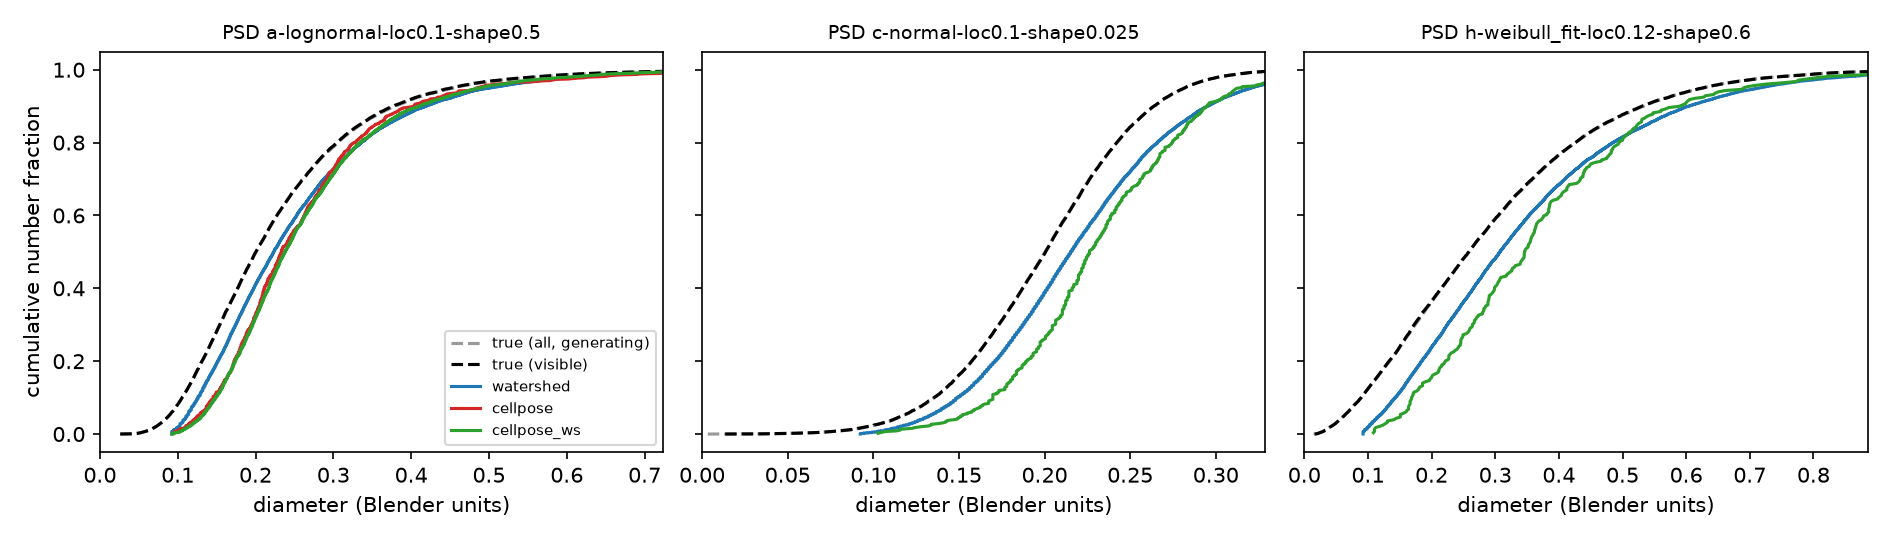
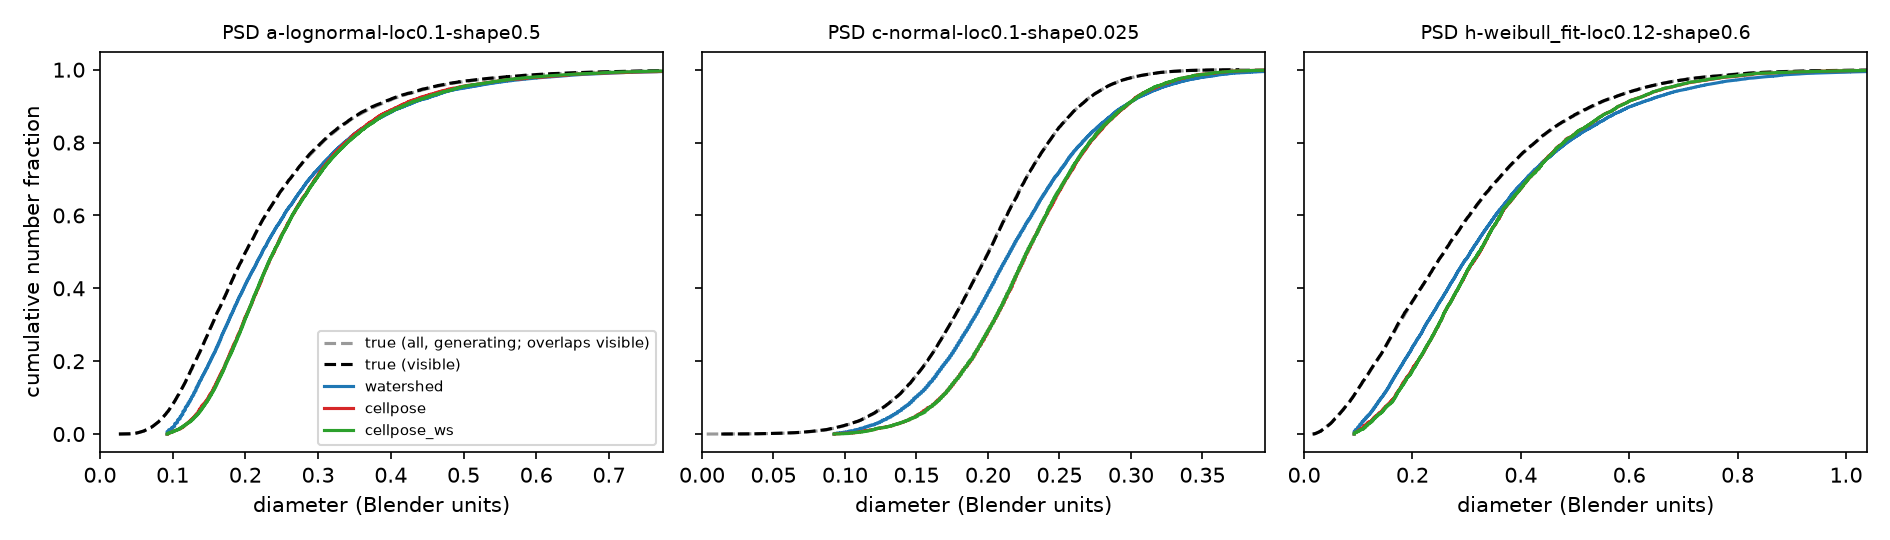
Block 5 results, Block 8 figures and one-pager

diff --git a/src/validate_synthetic.py b/src/validate_synthetic.py
@@ -204,37 +204,40 @@ def report(max_k=None, figures=True):
                 continue
             v = np.sort(cdfs[(L, key)])
             ls = "--" if key in ("generating", "visible") else "-"
-            lab = {"generating": "true (all, generating)", "visible": "true (visible)"}.get(key, key)
+            lab = {"generating": "true (all, generating; overlaps visible)", "visible": "true (visible)"}.get(key, key)
             ax.plot(v, np.arange(1, len(v) + 1) / len(v), ls, color=colors[key], label=lab, lw=1.5)
         name = res.loc[res.psd == L, "psd_name"].iloc[0]
         ax.set_title(f"PSD {name}", fontsize=9)
         ax.set_xlabel("diameter (Blender units)")
-        ax.set_xlim(0, np.percentile(cdfs[(L, "generating")], 99.5))
+        ax.set_xlim(0, max(np.percentile(v_, 99.5) for k_, v_ in cdfs.items() if k_[0] == L))
     axs[0].set_ylabel("cumulative number fraction")
     axs[0].legend(fontsize=7, loc="lower right")
     fig.tight_layout()
     fig.savefig(figs / "fig2_synthetic_psd.png", dpi=150)
     plt.close(fig)
 
-    fig, ax = plt.subplots(figsize=(4.6, 4.4))
+    fig, axs = plt.subplots(1, 2, figsize=(9.2, 4.4))
     mk = {"watershed": "o", "cellpose": "s", "cellpose_ws": "^"}
-    lo = min(res.vis_D50.min(), res.meas_D50.min()) * 0.9
-    hi = max(res.vis_D50.max(), res.meas_D50.max()) * 1.1
-    for m in methods:
-        s = res[res.method == m]
-        ax.scatter(s.vis_D50, s.meas_D50, marker=mk[m], color=colors[m],
-                   label=f"{m} (mean |err| {np.mean(np.abs(s.err_vs_vis_D50)):.1%})")
-        for _, r in s.iterrows():
-            ax.annotate(r.psd, (r.vis_D50, r.meas_D50), fontsize=6, xytext=(2, 2), textcoords="offset points")
-    ax.plot([lo, hi], [lo, hi], "k--", lw=1)
-    ax.plot([lo, hi], [lo * 1.1, hi * 1.1], ":", color="0.6", lw=0.8)
-    ax.plot([lo, hi], [lo * 0.9, hi * 0.9], ":", color="0.6", lw=0.8)
-    ax.set_xlim(lo, hi)
-    ax.set_ylim(lo, hi)
-    ax.set_xlabel("true D50, visible particles (units)")
-    ax.set_ylabel("measured D50 (units)")
-    ax.set_title("Synthetic D50 parity (8 PSDs, 48 images each)", fontsize=9)
-    ax.legend(fontsize=7, loc="upper left")
+    for ax, (tcol, mcol, ecol, lbl) in zip(axs, [
+            ("vis_D50", "meas_D50", "err_vs_vis_D50", "number-weighted D50"),
+            ("vis_D50_vol", "meas_D50_vol", "err_vs_vis_D50_vol", "volume-weighted D50")]):
+        lo = min(res[tcol].min(), res[mcol].min()) * 0.9
+        hi = max(res[tcol].max(), res[mcol].max()) * 1.1
+        for m in methods:
+            s = res[res.method == m]
+            ax.scatter(s[tcol], s[mcol], marker=mk[m], color=colors[m],
+                       label=f"{m}, {int(s.n_images.median())} img/PSD (mean |err| {np.mean(np.abs(s[ecol])):.1%})")
+            for _, r in s.iterrows():
+                ax.annotate(r.psd, (r[tcol], r[mcol]), fontsize=6, xytext=(2, 2), textcoords="offset points")
+        ax.plot([lo, hi], [lo, hi], "k--", lw=1)
+        ax.plot([lo, hi], [lo * 1.1, hi * 1.1], ":", color="0.6", lw=0.8)
+        ax.plot([lo, hi], [lo * 0.9, hi * 0.9], ":", color="0.6", lw=0.8)
+        ax.set_xlim(lo, hi)
+        ax.set_ylim(lo, hi)
+        ax.set_xlabel(f"true {lbl}, visible particles (units)")
+        ax.set_ylabel(f"measured {lbl} (units)")
+        ax.set_title(f"Synthetic {lbl} parity, 8 PSDs (dotted: +-10%)", fontsize=9)
+        ax.legend(fontsize=6.5, loc="upper left")
     fig.tight_layout()
     fig.savefig(figs / "fig3_d50_parity.png", dpi=150)
     plt.close(fig)

diff --git a/tests/make_fig1.py b/tests/make_fig1.py
@@ -1,0 +1,44 @@
+"""figures/fig1_overlays.png: raw | watershed | Cellpose, synthetic row + real row."""
+import sys
+from pathlib import Path
+
+import numpy as np
+
+ROOT = Path(__file__).resolve().parents[1]
+sys.path.insert(0, str(ROOT))
+from src.imio import load_gray  # noqa: E402
+from src.segment import overlay, segment  # noqa: E402
+
+
+def main():
+    import matplotlib
+    matplotlib.use("Agg")
+    import matplotlib.pyplot as plt
+    rows = [
+        ("Synthetic (PSD e, render 1), 256x256 crop",
+         load_gray(ROOT / "data/synthetic/e-lognormal-loc0.12-shape0.5/renders/particles1.png"), (0, 256, 0, 256)),
+        ("AA7075 base powder (Fig 2a), 300x, 0.372 µm/px",
+         load_gray(ROOT / "data/aa7075/Original_Image_for_Fig_2a.tif"), None),
+    ]
+    fig, axs = plt.subplots(2, 3, figsize=(12, 8.4))
+    for r, (name, img, crop) in enumerate(rows):
+        panels = [("raw", img, None)]
+        for m in ("watershed", "cellpose"):
+            lab, info = segment(img, m)
+            panels.append((f"{m}: n={info['n']} (full frame), {info['seconds']:.1f} s CPU", img, lab))
+        for c, (t, im, lab) in enumerate(panels):
+            show = np.dstack([im] * 3) if lab is None else overlay(im, lab)[..., ::-1]
+            if crop:
+                y0, y1, x0, x1 = crop
+                show = show[y0:y1, x0:x1]
+            axs[r, c].imshow(show, cmap="gray", interpolation="nearest")
+            axs[r, c].set_title(t if c else f"{name}", fontsize=9)
+            axs[r, c].axis("off")
+    fig.tight_layout()
+    (ROOT / "figures").mkdir(exist_ok=True)
+    fig.savefig(ROOT / "figures/fig1_overlays.png", dpi=130)
+    print("saved figures/fig1_overlays.png")
+
+
+if __name__ == "__main__":
+    main()

diff --git a/src/real_check.py b/src/real_check.py
@@ -117,7 +117,8 @@ def main():
         ax.set_xlabel("diameter (µm)")
         ax.grid(alpha=0.3, which="both")
     axs[0].set_ylabel("cumulative volume fraction")
-    axs[0].legend(fontsize=6, loc="upper left")
+    for ax in axs:
+        ax.legend(fontsize=5.5, loc="upper left")
     fig.tight_layout()
     fig.savefig(figs / "fig4_aa7075_vs_reported.png", dpi=150)
     plt.close(fig)

diff --git a/PROGRESS.md b/PROGRESS.md
@@ -1,11 +1,11 @@
 # PROGRESS
 
 ## Summary (read this first)
-1. Blocks 1-2 done. Env works (`check_env.py` prints ok). Both datasets downloaded automatically.
-2. Scale: AA7075 TIFFs have NO data bar; µm/px read from Zeiss TIFF metadata (0.3722 µm/px). OCR scale-bar path tested on 5 rendered data bars: max error 0.25%.
-3. (pending) Segmentation, metrics, synthetic validation, real-image check, CLI, one-pager.
-4. Manual items for you: put Ti-6Al-4V / 316L images in `data/alloy2/` if you want Block 6 alloy-2 run.
-5. Disk: 12 GB free at start. Data on disk ~270 MB.
+1. All 8 blocks done. Demo: `python analyze.py samples --out out/demo` (watershed, ~1 s/image). One-pager: `ONE_PAGER.md`. Figures 1-4 + failures in `figures/`.
+2. Synthetic accuracy (exact 3D GT, 8 PSDs): watershed number D50 +12% (range +7 to +19%, always high), volume D50 +12%; Cellpose volume D50 6% abs. D90 ranks all 8 PSDs correctly (ρ = 1.0).
+3. Real AA7075 vs laser diffraction (volume, edge-corrected, watershed): D50 -14% (base), -8% (surface-mod TiC), -25% (volume-mod TiC, only 29 particles). D90 -17 to -42%: one 300x frame is too small a sample for D90.
+4. Skipped: Rettenberger model (needs Detectron2 compile, no compiler), second alloy (`data/alloy2/` empty), satellite fraction beyond a solidity proxy. Cellpose validated on 16 img/PSD, not 50 (CPU time).
+5. For you: drop Ti-6Al-4V / 316L images in `data/alloy2/` and run `python analyze.py data/alloy2` to cover the alloy-2 check. Keep the project at a short path on the lab PC (Windows path-length limit breaks the torch install).
 
 ## Block 1: Env + data (DONE)
 - Python 3.13.2, torch 2.14.1+cpu (already present), cellpose 3.0.9, easyocr 1.7.2, skimage 0.26, opencv-python-headless 5.0. Pinned in `requirements.txt`.
@@ -70,3 +70,72 @@
 - Satellite proxy: `irregular_frac` = fraction with solidity < 0.90 (coarse: satellites attached or agglomerates).
 - `analyze_image(path, method, um_per_px=None) -> (df, summary, labels, img, scale)` and `plot_psd()`.
 - First real number, Fig 2a cellpose: D10/D50/D90 vol = 17.9/32.7/53.3 µm vs laser 26.0/44.4/72.9 (D50 -26%). See Block 6.
+
+## Block 5: Synthetic validation (DONE)
+- `src/synthetic_gt.py`, `src/validate_synthetic.py` -> `out/synthetic_validation.csv` (+ `_summary.csv`, `_first16.csv`), `figures/fig2_synthetic_psd.png`, `figures/fig3_d50_parity.png`.
+- Camera geometry (from `blender_powder.py` + `blend.sh`; intrinsics are Blender 2.7x defaults since the script sets none): perspective camera at (0,0,10) looking down -z; 35 mm lens, 32 mm sensor; 1024^2 render at default 50% -> 512^2 PNG; f = 35/32 x 512 = 560 px; px/unit = 560 / (10 - z) = 56.0 at z=0, 50.9-62.2 over the particle box (z in [-1, 1]). Sphere `size` = radius. World xyz = [11,11,2] x json - [5.5,5.5,1].
+- Check: ray-cast foreground of the JSON spheres vs thresholded render, IoU 0.92; outlines sit on the rendered spheres (visual).
+- Visible GT: per-pixel ray-sphere z-buffer gives exact visible-pixel counts; keep spheres > 50% visible and not touching the frame. Sparse scenes: visible D50 = generating D50 within 1%.
+- Measured px -> units with ONE nominal scale (median px/unit of visible GT spheres = 56.0, what a calibrated SEM gives). Exact per-sphere px comparison also in CSV (`*_px` columns): same numbers within 1 pt.
+- Matching: Hungarian on centroids, tolerance max(3 px, 0.5 x GT diameter).
+- Images: watershed renders 1-48 per PSD (383; `a/particles37.json` is truncated upstream, skipped). Cellpose and cellpose_ws renders 1-16 per PSD (127 each). Deviation from ~50/PSD: Cellpose ran 20-60 s/image on this CPU (two parallel runs throttled each other), full set would have taken ~6 h. Renders 49-50 were the tuning set and are excluded.
+- Results, watershed (48 img/PSD) and Cellpose auto-diameter (16 img/PSD), errors vs visible GT:
+
+| PSD | true D50 vis / gen | WS D50 | WS err vis / gen | WS D10 / D90 err | WS vol D50 err | WS recall | CP D50 err | CP vol D50 err | CP recall |
+|---|---|---|---|---|---|---|---|---|---|
+| a | 0.200 / 0.200 | 0.223 | +11.6% / +11.5% | +19.1% / +11.4% | +11.3% | 0.80 | +19.4% | +3.4% | 0.86 |
+| b | 0.199 / 0.199 | 0.230 | +15.2% / +15.7% | +33.3% / +12.3% | +9.8% | 0.74 | +23.7% | -3.1% | 0.79 |
+| c | 0.201 / 0.200 | 0.215 | +7.3% / +7.4% | +10.4% / +12.0% | +11.0% | 0.89 | +13.6% | +11.4% | 0.95 |
+| d | 0.201 / 0.201 | 0.216 | +7.5% / +7.7% | +6.0% / +11.4% | +11.9% | 0.89 | +14.7% | +11.6% | 0.96 |
+| e | 0.242 / 0.241 | 0.264 | +9.1% / +9.1% | +15.1% / +11.1% | +12.5% | 0.77 | +14.9% | +4.3% | 0.82 |
+| f | 0.241 / 0.240 | 0.274 | +13.6% / +14.2% | +24.3% / +14.1% | +10.7% | 0.72 | +20.7% | -8.6% | 0.77 |
+| g | 0.254 / 0.254 | 0.289 | +13.7% / +14.1% | +40.1% / +11.1% | +11.5% | 0.74 | +15.3% | +5.1% | 0.79 |
+| h | 0.259 / 0.259 | 0.308 | +19.0% / +18.9% | +59.4% / +13.8% | +13.7% | 0.69 | +25.4% | +2.3% | 0.73 |
+
+- Means over 8 PSDs (|error| vs visible GT):
+
+| Method | num D50 | num D10 | num D90 | vol D50 | recall | precision | matched size ratio | s/img |
+|---|---|---|---|---|---|---|---|---|
+| watershed | 12.1% | 25.9% | 12.2% | 11.5% | 0.78 | 0.99 | 1.02 | 0.3 |
+| cellpose | 18.5% | 44.9% | 10.6% | 6.2% | 0.83 | 0.97 | 1.10 | 20 |
+| cellpose_ws | 18.1% | 46.1% | 10.4% | 6.9% | 0.84 | 0.97 | 1.10 | 14 |
+
+- Same-subset check (renders 1-16, all methods): watershed num D50 12.2%, vol D50 11.5%; cellpose 18.5% / 5.8%. Conclusions unchanged.
+- Ranking (Spearman ρ, 8 PSDs): number D50 0.76 vs visible (0.81 vs generating) for all methods; volume D50 1.00 (watershed), 0.98 (Cellpose); D90 1.00 for all. The D50 ρ < 1 is only within ties: PSDs a-d have identical true D50 (0.200) and e-h near-identical (0.24-0.26). Every method separates the two groups with no overlap (watershed: max a-d 0.230 < min e-h 0.264).
+- Bias: number D50 always reads high (+7 to +19%). Cause: overlapping spheres merge (small ones lost; recall 0.69-0.89) and 0-10% of visible spheres are below the 5 px ECD floor. Against resolvable GT (ECD >= 5 px) watershed D50 error drops to 8.0%. Matched particles are sized accurately by watershed (ratio 1.02); Cellpose masks are ~10% oversized on these ~11 px particles.
+- Decision: keep both. Watershed default (best number-weighted, 70x faster). Cellpose better for volume-weighted D50 on synthetic. No synthetic-derived correction factor applied (would not transfer to real images).
+
+## Block 6: Real-image check (DONE)
+- `src/real_check.py` -> `out/aa7075_vs_laser.csv`, `figures/fig4_aa7075_vs_reported.png`, overlays in `out/real/`.
+- Image -> laser mapping (inferred from morphology and size; dataset does not label Fig 2 panels in the files): 2a = base 7075; 2c = TiC surface-modified ("BM", compared to mean of 0.3/1.0/2.0 wt% BM); 2d = TiC volume-modified ("VM", mean of 0.3/1.0 wt% VM).
+- Added Miles-Lantuéjoul edge correction (`*_vol_ec`): edge-touching particles are excluded, which under-counts large ones; each kept particle weighted by frame area / area where it fits without touching the edge. Standard stereology, not tuned.
+- Volume-weighted, edge-corrected vs laser (µm):
+
+| Image | Method | n | D10 img / laser | D50 img / laser | D90 img / laser | D50 err |
+|---|---|---|---|---|---|---|
+| 2a base | watershed | 176 | 21.8 / 26.0 | 38.4 / 44.4 | 60.3 / 72.9 | -13.5% |
+| 2a base | cellpose | 200 | 18.5 / 26.0 | 33.7 / 44.4 | 53.9 / 72.9 | -24.1% |
+| 2c BM | watershed | 271 | 17.8 / 22.8 | 36.5 / 39.7 | 46.3 / 65.9 | -8.1% |
+| 2c BM | cellpose | 302 | 15.9 / 22.8 | 33.7 / 39.7 | 45.3 / 65.9 | -15.1% |
+| 2d VM | watershed | 29 | 43.7 / 44.9 | 53.3 / 71.4 | 69.3 / 118.6 | -25.4% |
+| 2d VM | cellpose | 22 | 40.8 / 44.9 | 55.2 / 71.4 | 70.0 / 118.6 | -22.8% |
+
+- Systematic bias: image under-reads laser, worst at D90 (-17 to -41%). Causes, in order of size:
+  1. Field of view. One 381 x 286 µm frame per powder. The image CDF ends at 60-70 µm; laser extends past 100 µm. 2d holds only 22-29 whole particles; large ones touch the border and are dropped. Edge correction recovers only a few %, since there are almost no large particles left to up-weight.
+  2. Laser diffraction reads high on non-spherical / agglomerated powder (equivalent-sphere model); the 1.0 VM sample has ~6% volume at 1-3 mm (agglomerates) that no 300x frame can contain.
+  3. Partly buried particles (2a background layer) read small; satellite clusters read as one (watershed).
+- Watershed is closer to laser than Cellpose on 2a and 2c; Cellpose masks are slightly tighter on real particles and split satellite clusters more, which lowers volume-weighted sizes.
+- Alloy 2: SKIPPED, `data/alloy2/` empty. 2c/2d (TiC-modified powders, different morphology: wrinkled skins, satellites) ran unchanged with no parameter tweaks as the closest substitute.
+- Failure examples in `figures/failures/`: (1) 2d watershed loses shaded flanks + edge loss of large spheres; (2) 2d Cellpose false-positive mask on substrate; (3) 2a watershed merges an agglomerate; (4) synthetic overlapping spheres merged.
+
+## Block 7: CLI tool (DONE)
+- `python analyze.py <folder|image> [--method watershed|cellpose|cellpose_ws] [--um-per-px X] [--scales csv] [--out dir]`. Writes results.csv, particles/, psd/, overlays/, scale_debug/, psd_all.png. Continues past unreadable files.
+- Default method: watershed (best synthetic D50, closer to laser on 2 of 3 real frames, ~1 s vs 15-60 s per image on CPU).
+- Bug found and fixed: even-sized morphology kernel left one data-bar row in the crop, which shielded bottom-edge particles from `clear_border` (185 vs 176 particles). Kernel now odd; data-bar and metadata versions of Fig 2a now give identical results.
+- `samples/`: Fig 2a TIFF (metadata scale) + same frame with a rendered data bar (OCR scale) + `expected/results.csv`.
+- Fresh clone + fresh venv + `pip install --only-binary=:all: -r requirements.txt` + `analyze.py samples`: results.csv matches expected exactly (timing column excluded). Gotcha found: install fails under a long path (Windows 260-char limit, torch headers). README says to keep the project at a short path.
+
+## Block 8: Figures + one-pager (DONE)
+- `figures/fig1_overlays.png` (raw | watershed | Cellpose; synthetic PSD e crop + AA7075 Fig 2a), `fig2_synthetic_psd.png` (CDFs, PSDs a/c/h), `fig3_d50_parity.png` (number and volume D50 parity, all PSDs, 3 methods), `fig4_aa7075_vs_reported.png` (image vs laser volume CDFs), `failures/` (4 annotated examples).
+- `ONE_PAGER.md`: accuracy tables first, inputs/outputs, limits, ask (20-30 CAMAL powder SEM images + laser PSD of the same lot if available).
+- Regenerate: `python -m src.validate_synthetic report`, `python -m src.real_check`, `python tests/make_fig1.py`, `python tests/make_failures.py`.

diff --git a/ONE_PAGER.md b/ONE_PAGER.md
@@ -1,0 +1,50 @@
+# SEM Powder Characterization Tool
+
+**Image-only particle size and shape statistics for metal AM powder. Any alloy, CPU only, ~1 s per image.**
+
+## Accuracy
+**Synthetic SEM renders with exact 3D ground truth** (DeCost & Holm 2016; 8 PSDs; 383 images watershed, 127 Cellpose; ~400 visible particles per image):
+
+| Metric (mean over 8 PSDs) | Watershed (default) | Cellpose 3 (zero-shot) |
+|---|---|---|
+| Number-weighted D50 error | +12% (range +7 to +19%) | +19% |
+| Volume-weighted D50 error | +12% (range +10 to +14%) | 6% abs. (range -9 to +12%) |
+| D90 error | +12% | +11% |
+| Particles found (recall / precision) | 0.78 / 0.99 | 0.83 / 0.97 |
+| Size of correctly found particles | within 2% | +10% |
+| Ranks 8 PSDs by D90 / volume D50 (Spearman ρ) | 1.00 / 1.00 | 1.00 / 0.98 |
+| CPU time per image | 0.3 s | 20 s |
+
+D50 reads high because overlapping particles merge and particles under 5 px are not detected. The two groups of PSDs (D50 0.20 vs 0.24 to 0.26) separate with no overlap for every method.
+
+**Real AA7075 powder vs laser diffraction** (Mendeley 42gzbgk5hb, one 300x Zeiss frame per powder, volume-weighted, edge-corrected):
+
+| Powder | Particles | D50 image / laser (µm) | D50 error | D90 error |
+|---|---|---|---|---|
+| Base 7075 | 176 | 38.4 / 44.4 | -14% | -17% |
+| 7075 + TiC (surface mod.) | 271 | 36.5 / 39.7 | -8% | -30% |
+| 7075 + TiC (volume mod.) | 29 | 53.3 / 71.4 | -25% | -42% |
+
+The image under-reads laser because one 381 x 286 µm frame holds few large particles, and those touching the edge are dropped. Laser diffraction also reads high on agglomerates (one sample has 6% volume at 1 to 3 mm). Error grows as particle count falls. Fix: several fields per powder, at least 300 particles.
+
+**Scale bar reading:** 5 test data bars (Zeiss, FEI and JEOL styles; µm and mm labels): max error 0.25%. Zeiss and FEI TIFF metadata are read directly when present.
+
+## What it does
+`python analyze.py <folder>` on any folder of SEM images (TIF, PNG, JPG).
+1. Scale: µm/px from SEM TIFF metadata or OCR of the scale bar, or a CSV or command-line value. If none is found, results are reported in px and flagged.
+2. Crops the data bar, then segments particles (watershed or Cellpose). No alloy-specific settings.
+3. Per particle: ECD, area, perimeter, circularity, aspect ratio, solidity.
+4. Per image: count, D10/D50/D90 (number- and volume-weighted, plus volume edge-corrected), mean shape metrics, fraction of irregular particles (satellites or agglomerates).
+5. Outputs: `results.csv`, per-particle CSVs, PSD plots, segmentation overlays, scale-bar debug images.
+
+## Known limits
+- **2D projection of 3D powder:** partly buried particles read small; overlapping particles merge.
+- **Resolution:** particles under 5 px ECD are not detected. Small particles need higher magnification.
+- **Field of view:** D90 needs many large particles. Few particles per frame gives a biased D90.
+- **Agglomerates and satellite clusters** are measured as one particle (watershed). Cellpose splits more.
+- **Background:** assumes particles brighter than the substrate (SE/BSE on carbon tape).
+- **Scale-bar OCR:** validated on rendered bars only. Check the scale debug image or pass `--um-per-px`.
+- **Not yet tested** on Ti-6Al-4V, 316L, or any CAMAL instrument.
+
+## Ask
+**20 to 30 SEM images of powder from any CAMAL run.** Any alloy, any magnification. No metadata needed; a visible scale bar or the original TIFF is enough. A laser-diffraction PSD for the same lot, if one exists, lets us report accuracy on CAMAL data.

diff --git a/README.md b/README.md
@@ -8,7 +8,7 @@ python -m venv .venv; .venv\Scripts\Activate.ps1
 python -m pip install --only-binary=:all: -r requirements.txt
 python check_env.py   # prints "ok"; first run downloads Cellpose and EasyOCR models (~100 MB)
 ```
-(Linux/macOS: `source .venv/bin/activate`. On first run, if easyocr crashes with `UnicodeEncodeError`, set `PYTHONIOENCODING=utf-8`.)
+Keep the project at a short path (e.g. `C:\sem-powder`): torch has deeply nested files and pip fails with `OSError: [Errno 2]` past Windows' 260-character path limit unless long paths are enabled. (Linux/macOS: `source .venv/bin/activate`. On first run, if easyocr crashes with `UnicodeEncodeError`, set `PYTHONIOENCODING=utf-8`.)
 
 ## Run
 ```
@@ -62,7 +62,7 @@ See `ONE_PAGER.md` and `PROGRESS.md`. Synthetic renders with exact 3D ground tru
 ## Known limits
 - 2D projection: ECD of a sphere's silhouette equals its diameter, but partly hidden particles read small and overlapping particles merge (read large, small ones lost). Synthetic D50 reads ~8 to 20% high from this.
 - Resolution: particles under ~5 px ECD (20 px area) are dropped. Image at a magnification where the smallest particles of interest are > 10 px across.
-- Field of view: D90 needs many large particles. Frames with < 100 particles, or where large particles touch the edge, under-read D90 (AA7075 at 300x: D90 -17 to -41% vs laser). Use several fields or lower magnification.
+- Field of view: D90 needs many large particles. Frames with < 100 particles, or where large particles touch the edge, under-read D90 (AA7075 at 300x: D90 -17 to -42% vs laser). Use several fields or lower magnification.
 - Agglomerates and satellite clusters are measured as one particle (as laser diffraction also does).
 - Dark substrate assumed (particles brighter than background, SE/BSE on carbon tape). Bright or textured substrates break the foreground step.
 - Scale-bar OCR tested only on rendered Zeiss/FEI/JEOL-style data bars (max error 0.25%); real instrument bars vary. Always check `scale_debug/` or pass `--um-per-px`.
